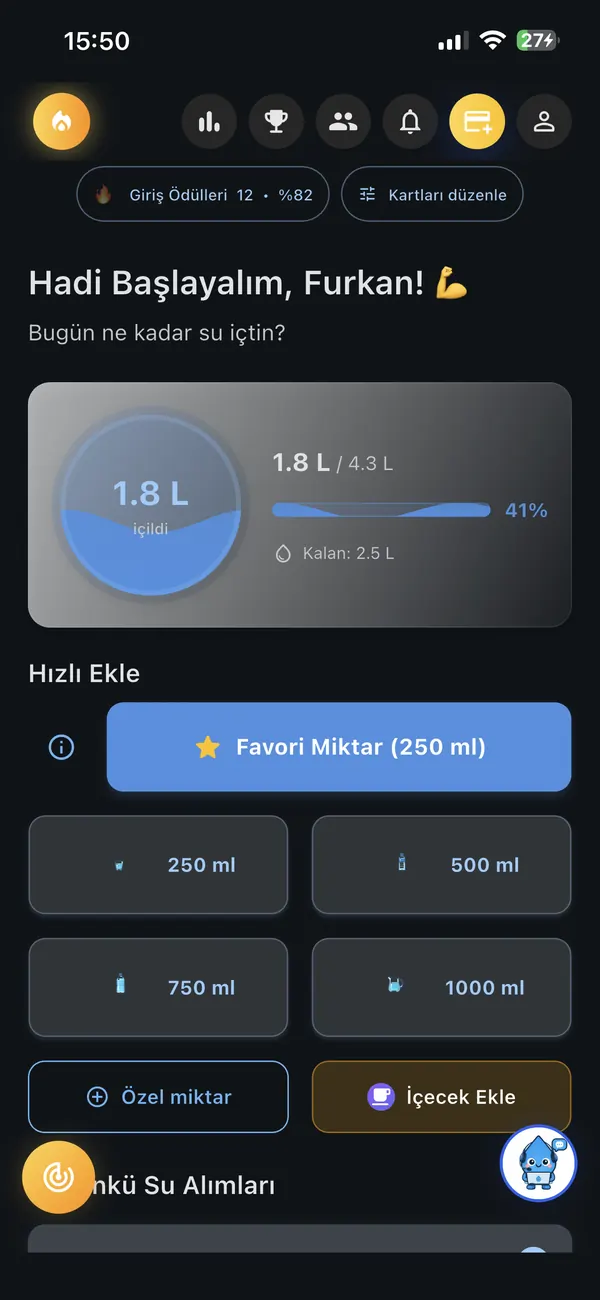
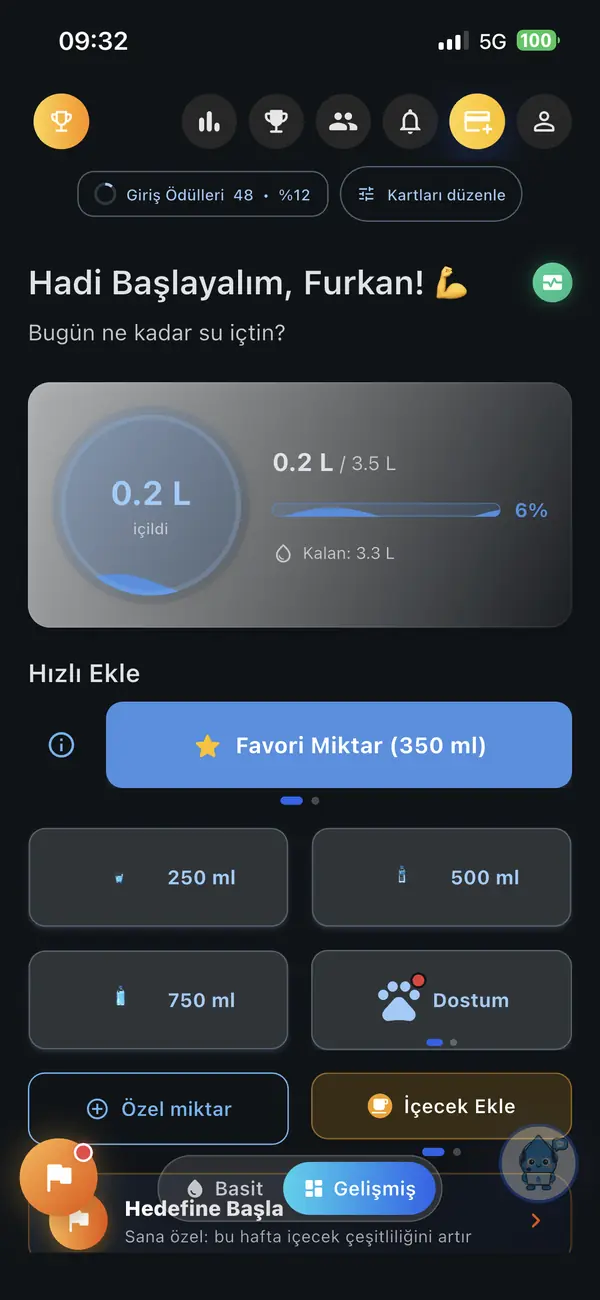
feat: gerçek Basit & Gelişmiş mod ekran görüntülerini ekle
- basit-ekran.webp eklendi (Basit mod, 600x1300, ~24KB)
- ana-ekran.webp güncel Gelişmiş mod görseliyle yenilendi
- hosgeldiniz-en/ru/ar: Basit fallback'i basit-ekran.webp'e yönlendirildi

diff --git a/hosgeldiniz-ru.html b/hosgeldiniz-ru.html
@@ -556,7 +556,7 @@
         <p class="section-sub">Чистый дизайн, ориентированный на одно: помочь вам пить больше воды без усилий.</p>
         <div class="screenshots-row">
             <div class="screenshot-wrap"><img fetchpriority="high" src="assets/screenshots/ana-ekran-ru.webp" width="600" height="1300" onerror="this.onerror=null;this.src='assets/screenshots/ana-ekran.webp'" alt="Расширенный режим, главный экран"></div>
-            <div class="screenshot-wrap"><img loading="lazy" src="assets/screenshots/basit-ekran-ru.webp" width="600" height="1300" onerror="this.onerror=null;this.src='assets/screenshots/ana-ekran.webp'" alt="Простой режим, главный экран"></div>
+            <div class="screenshot-wrap"><img loading="lazy" src="assets/screenshots/basit-ekran-ru.webp" width="600" height="1300" onerror="this.onerror=null;this.src='assets/screenshots/basit-ekran.webp'" alt="Простой режим, главный экран"></div>
             <div class="screenshot-wrap"><img loading="lazy" src="assets/screenshots/istatikler-ru.webp" width="600" height="1300" onerror="this.onerror=null;this.src='assets/screenshots/istatikler.webp'" alt="Статистика"></div>
             <div class="screenshot-wrap"><img loading="lazy" src="assets/screenshots/asistan-ru.webp" width="600" height="1300" onerror="this.onerror=null;this.src='assets/screenshots/su-ekleme.webp'" alt="AI ассистент"></div>
             <div class="screenshot-wrap"><img loading="lazy" src="assets/screenshots/gun-challenge-ru.webp" width="600" height="1300" onerror="this.onerror=null;this.src='assets/screenshots/hedefler.webp'" alt="Челлендж 7 дней"></div>

diff --git a/hosgeldiniz-ar.html b/hosgeldiniz-ar.html
@@ -465,7 +465,7 @@
         <p class="section-sub">واجهة نظيفة تركّز على شيء واحد: مساعدتك على شرب ماء أكثر بسهولة.</p>
         <div class="screenshots-row">
             <div class="screenshot-wrap"><img fetchpriority="high" src="assets/screenshots/ana-ekran-ar.webp" width="600" height="1300" onerror="this.onerror=null;this.src='assets/screenshots/ana-ekran.webp'" alt="الوضع المتقدم - الشاشة الرئيسية"></div>
-            <div class="screenshot-wrap"><img loading="lazy" src="assets/screenshots/basit-ekran-ar.webp" width="600" height="1300" onerror="this.onerror=null;this.src='assets/screenshots/ana-ekran.webp'" alt="الوضع البسيط - الشاشة الرئيسية"></div>
+            <div class="screenshot-wrap"><img loading="lazy" src="assets/screenshots/basit-ekran-ar.webp" width="600" height="1300" onerror="this.onerror=null;this.src='assets/screenshots/basit-ekran.webp'" alt="الوضع البسيط - الشاشة الرئيسية"></div>
             <div class="screenshot-wrap"><img loading="lazy" src="assets/screenshots/istatikler-ar.webp" width="600" height="1300" onerror="this.onerror=null;this.src='assets/screenshots/istatikler.webp'" alt="الإحصائيات"></div>
             <div class="screenshot-wrap"><img loading="lazy" src="assets/screenshots/asistan-ar.webp" width="600" height="1300" onerror="this.onerror=null;this.src='assets/screenshots/su-ekleme.webp'" alt="مساعد الذكاء الاصطناعي"></div>
             <div class="screenshot-wrap"><img loading="lazy" src="assets/screenshots/gun-challenge-ar.webp" width="600" height="1300" onerror="this.onerror=null;this.src='assets/screenshots/hedefler.webp'" alt="تحدي 7 أيام"></div>

diff --git a/hosgeldiniz-en.html b/hosgeldiniz-en.html
@@ -619,7 +619,7 @@
         <p class="section-sub">Clean design focused on one thing: helping you drink more water, effortlessly.</p>
         <div class="screenshots-row">
             <div class="screenshot-wrap"><img fetchpriority="high" src="assets/screenshots/ana-ekran-en.webp" width="600" height="1300" onerror="this.onerror=null;this.src='assets/screenshots/ana-ekran.webp'" alt="Advanced mode home screen"></div>
-            <div class="screenshot-wrap"><img loading="lazy" src="assets/screenshots/basit-ekran-en.webp" width="600" height="1300" onerror="this.onerror=null;this.src='assets/screenshots/ana-ekran.webp'" alt="Simple mode home screen"></div>
+            <div class="screenshot-wrap"><img loading="lazy" src="assets/screenshots/basit-ekran-en.webp" width="600" height="1300" onerror="this.onerror=null;this.src='assets/screenshots/basit-ekran.webp'" alt="Simple mode home screen"></div>
             <div class="screenshot-wrap"><img loading="lazy" src="assets/screenshots/istatikler-en.webp" width="600" height="1300" onerror="this.onerror=null;this.src='assets/screenshots/istatikler.webp'" alt="Statistics"></div>
             <div class="screenshot-wrap"><img loading="lazy" src="assets/screenshots/asistan-en.webp" width="600" height="1300" onerror="this.onerror=null;this.src='assets/screenshots/su-ekleme.webp'" alt="AI assistant"></div>
             <div class="screenshot-wrap"><img loading="lazy" src="assets/screenshots/gun-challenge-en.webp" width="600" height="1300" onerror="this.onerror=null;this.src='assets/screenshots/hedefler.webp'" alt="7-day challenge"></div>
